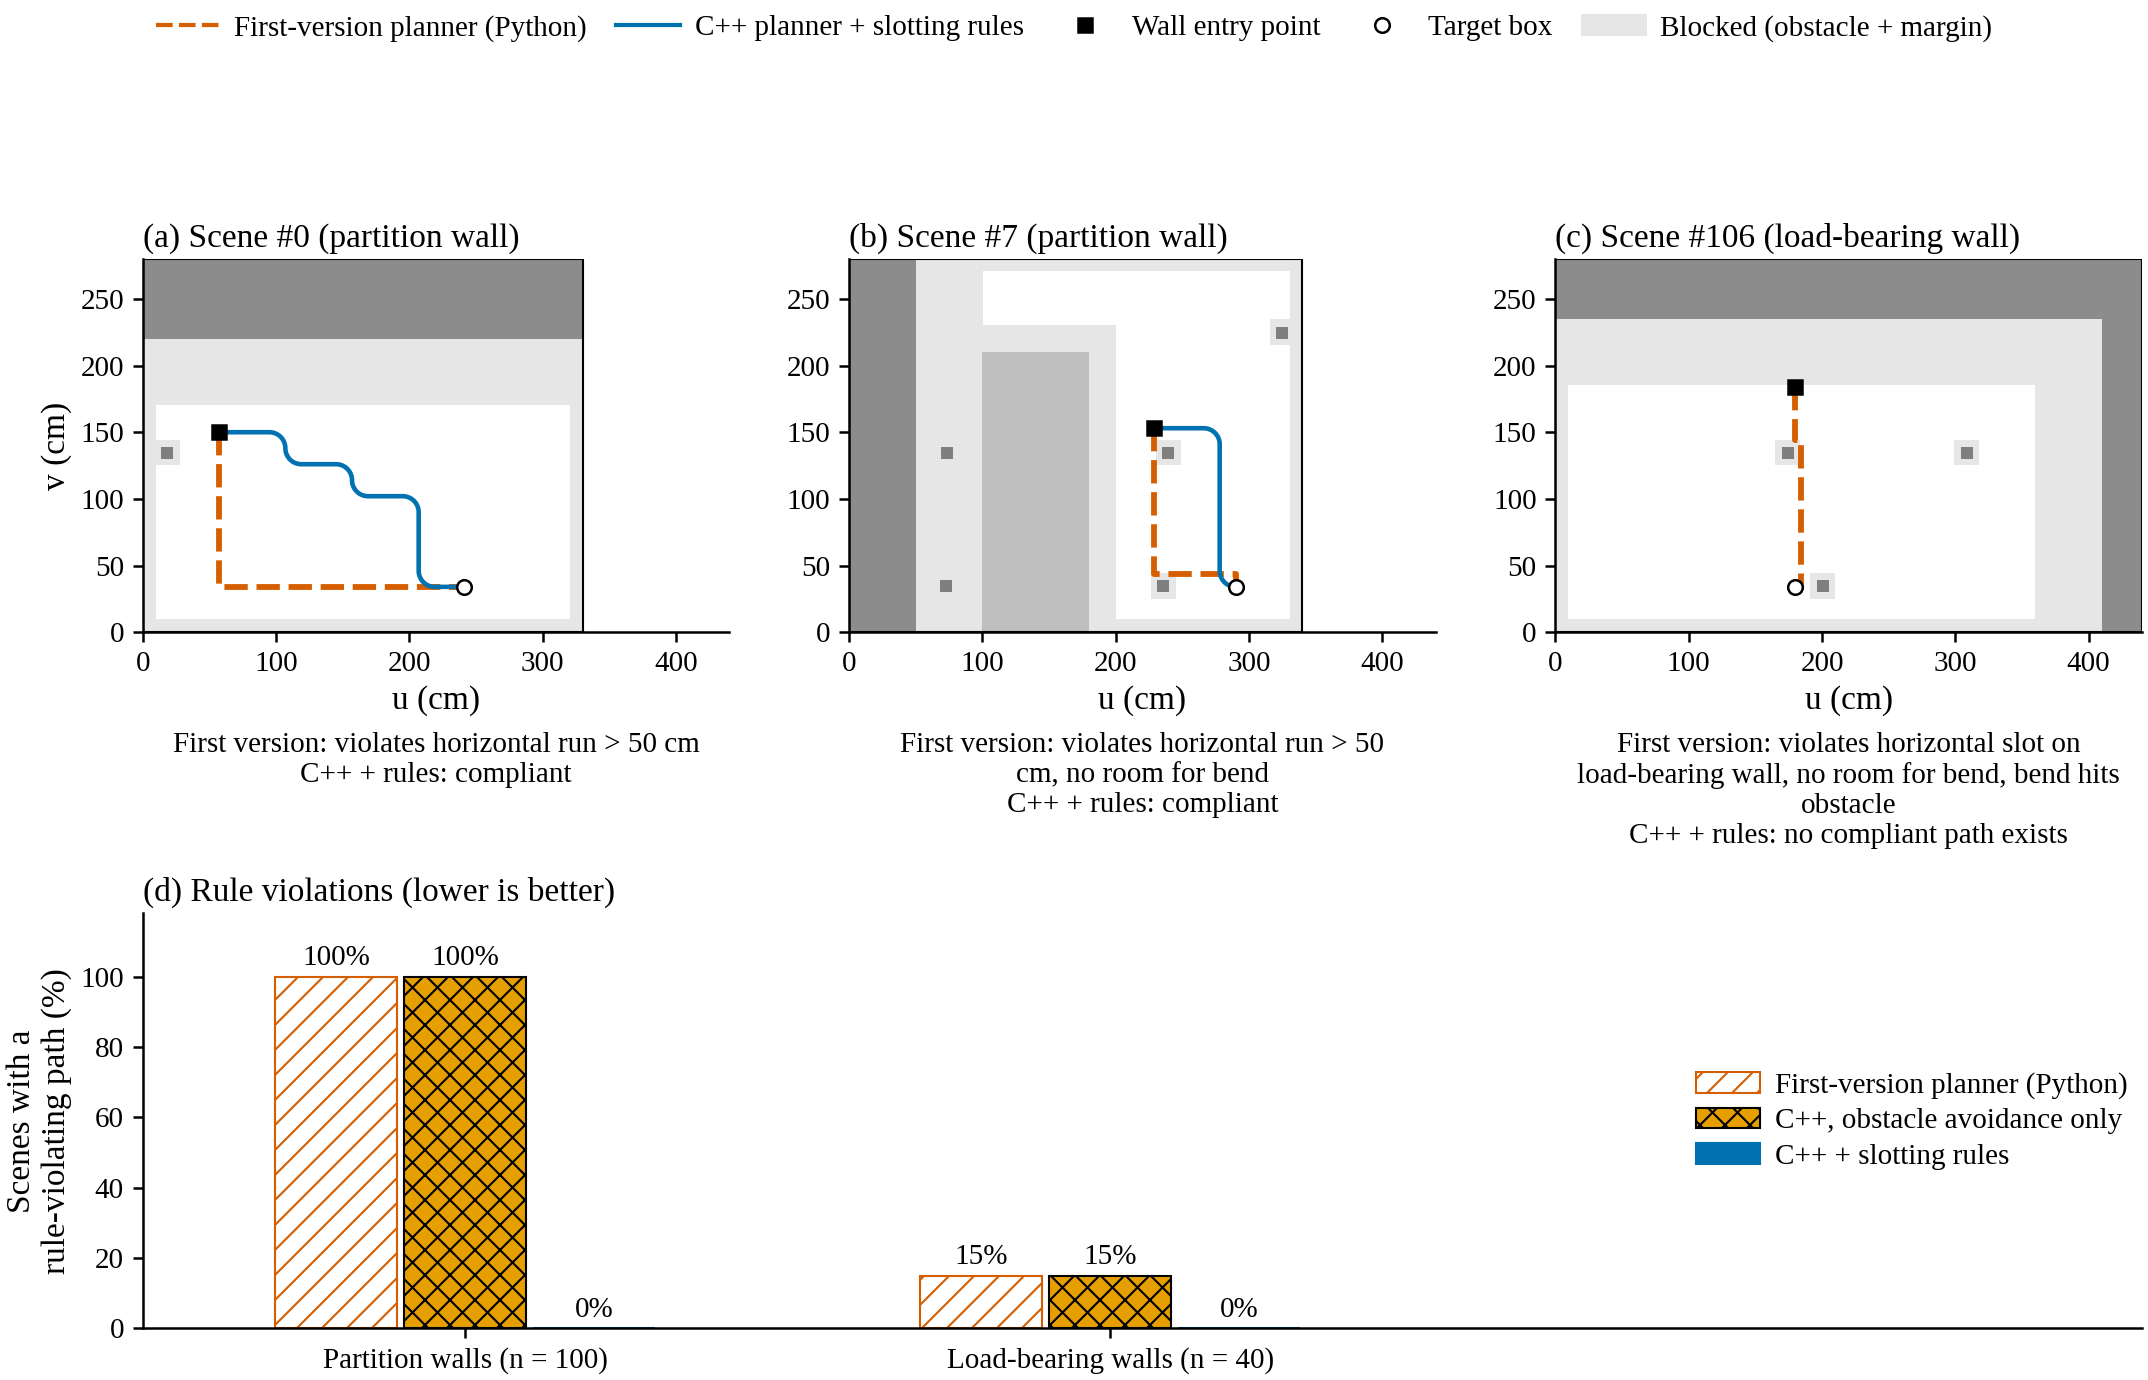
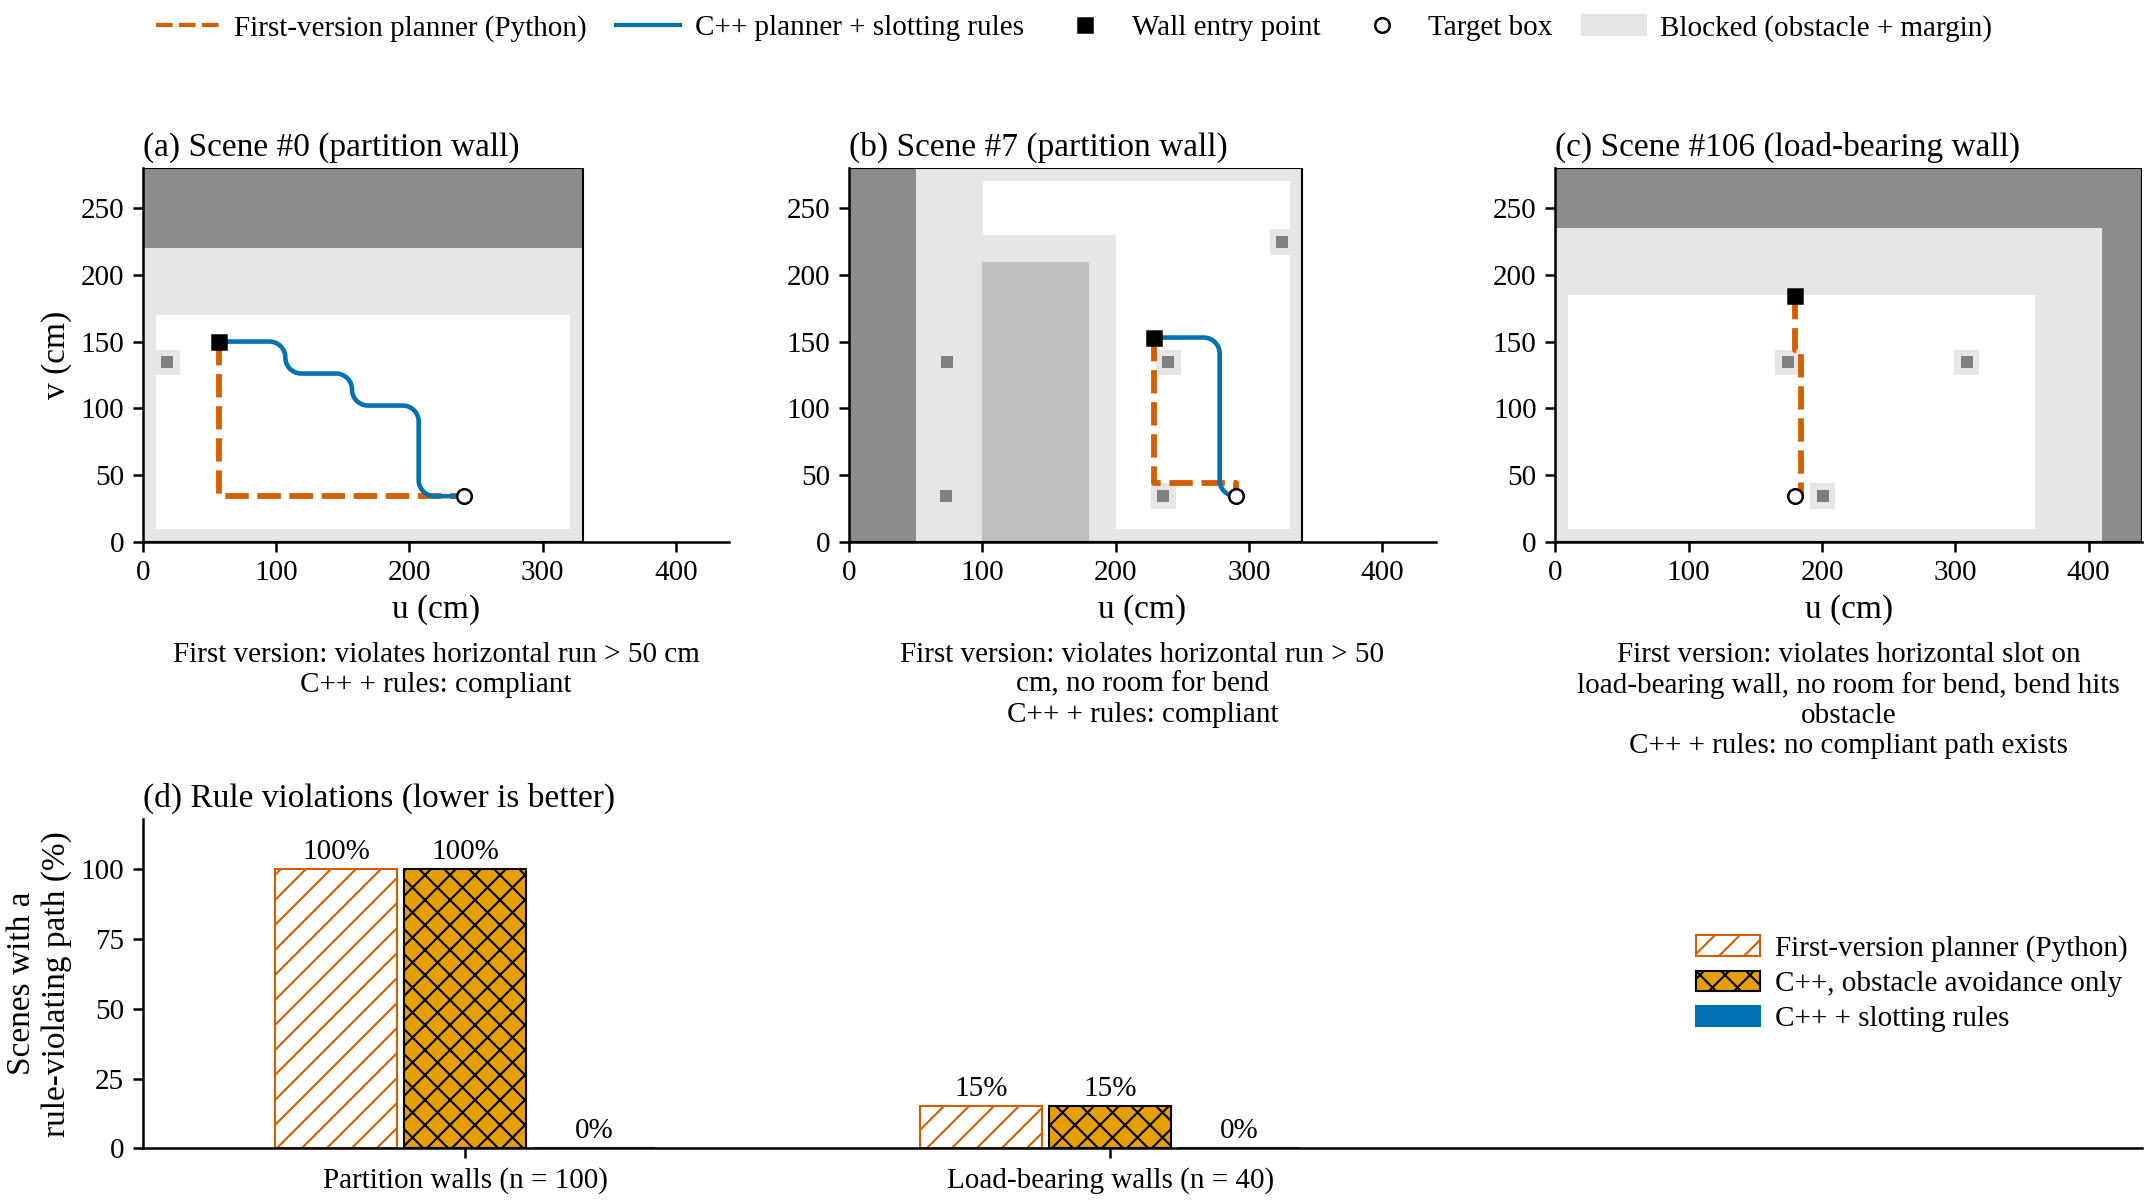
docs(cpp_planner): tighten the wall comparison layout

diff --git a/src/scr_planner/scripts/wall_benchmark.py b/src/scr_planner/scripts/wall_benchmark.py
@@ -268,8 +268,8 @@ def plot(scenes, paths, rows, summary, out):
     styles = (('py_enhanced', 'baseline', 'First-version planner (Python)'),
               ('cpp_rules', 'proposed', 'C++ planner + slotting rules'))
     import textwrap
-    fig = fs.figure(width='double', height=4.6)
-    gs = fig.add_gridspec(2, max(len(examples), 1), height_ratios=[1.5, 0.8])
+    fig = fs.figure(width='double', height=4.0)
+    gs = fig.add_gridspec(2, max(len(examples), 1), height_ratios=[1.45, 0.8])
     wmax = max(scenes[i].width for i in examples)
     hmax = max(scenes[i].height for i in examples)
     axes = [fig.add_subplot(gs[0, k]) for k in range(len(examples))]
